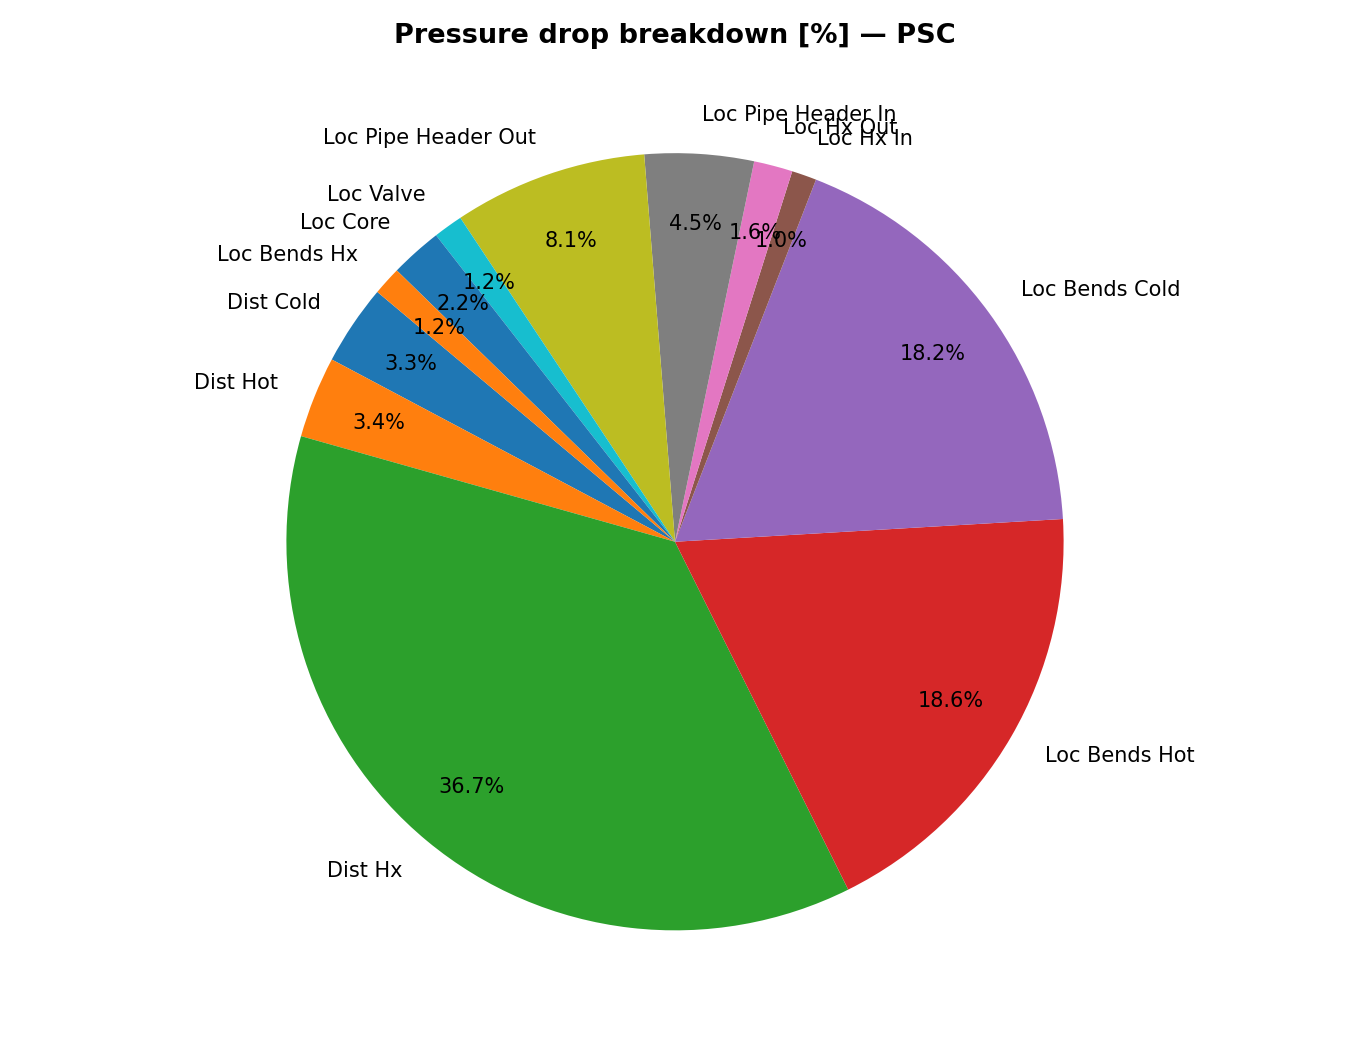
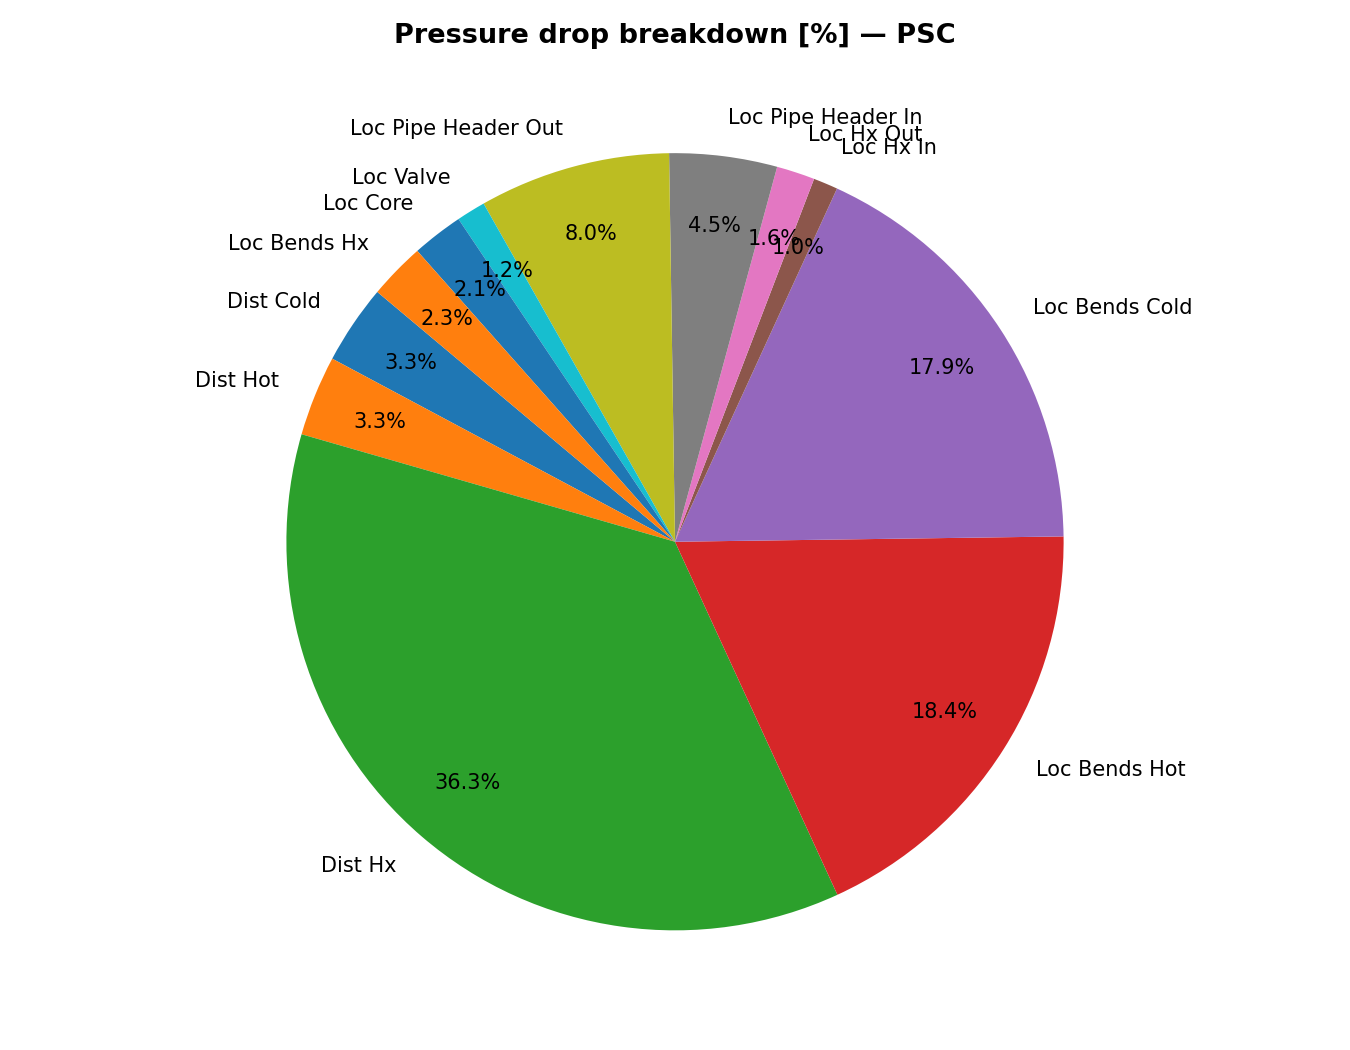
Migliorato grafici

diff --git a/assignment1/project2.py b/assignment1/project2.py
@@ -162,7 +162,7 @@ def pressure_drop_friction(m, N_HX, p, D_pipe, D_HX, T_av, T_c, T_h, eps_pipe, e
         dp_loc_shell = 0
         dp_loc_valve = k_valve * 1/(2*CP.PropsSI('D', 'T', T_av+273.15, 'P', p, 'Water') * (A_pipe)**2)
         dp_core = 1.2e5/3200**2  # perdita di carico nel core: deltaP_core [Pa] / m^2 [kg^2/s^2]
-        dp_bends_HX = k_bends * 1/(2*CP.PropsSI('D', 'T', T_av+273.15, 'P', p, 'Water') * (A_HX*N_HX)**2)
+        dp_bends_HX = 2* k_bends * 1/(2*CP.PropsSI('D', 'T', T_av+273.15, 'P', p, 'Water') * (A_HX*N_HX)**2)
         
 
     dp_dict = {
@@ -337,7 +337,7 @@ def plot_convergence(history_m_ISC, history_T_av_ISC, history_m_PSC, history_T_a
     plt.savefig(os.path.join(out_dir, 'convergence.png'), dpi=150)
 
 def plot_pressure_drop_pies(dp_dict_ISC, m_ISC, dp_dict_PSC, m_PSC, out_dir):
-    """Due grafici a torta separati: uno per ISC e uno per PSC."""
+    """Torte affiancate: contributo percentuale di ogni componente alle perdite totali per ISC e PSC."""
     keys = ['dist_cold', 'dist_hot', 'dist_HX',
             'loc_bends_hot', 'loc_bends_cold', 'loc_HX_in', 'loc_HX_out',
             'loc_pipe_header_in', 'loc_pipe_header_out',
@@ -347,18 +347,25 @@ def plot_pressure_drop_pies(dp_dict_ISC, m_ISC, dp_dict_PSC, m_PSC, out_dir):
     vals_ISC = np.array([dp_dict_ISC[k] * m_ISC**2 for k in keys])
     vals_PSC = np.array([dp_dict_PSC[k] * m_PSC**2 for k in keys])
 
-    for vals, mask_label, fname in [
-        (vals_ISC, 'ISC', 'pressure_drop_pie_ISC.png'),
-        (vals_PSC, 'PSC', 'pressure_drop_pie_PSC.png'),
-    ]:
+    def _draw_pie(ax, vals, title):
         mask = vals > 0
-        fig, ax = plt.subplots(figsize=(9, 7))
-        ax.pie(vals[mask], labels=np.array(labels)[mask],
-               autopct='%1.1f%%', startangle=140, pctdistance=0.82)
-        ax.set_title(f'Pressure drop breakdown [%] — {mask_label}', fontsize=13, fontweight='bold')
-        plt.tight_layout()
-        plt.savefig(os.path.join(out_dir, fname), dpi=150)
-        plt.close(fig)
+        v = vals[mask]
+        lbl = np.array(labels)[mask]
+        wedges, _ = ax.pie(v, startangle=140, wedgeprops=dict(linewidth=0.5, edgecolor='white'))
+        # Legenda con percentuali: nessuna etichetta diretta sul grafico → zero sovrapposizioni
+        pcts = v / v.sum() * 100
+        legend_labels = [f'{l}  ({p:.1f}%)' for l, p in zip(lbl, pcts)]
+        ax.legend(wedges, legend_labels, loc='center left', bbox_to_anchor=(1.0, 0.5),
+                  fontsize=8, frameon=True)
+        ax.set_title(title)
+
+    fig, (ax1, ax2) = plt.subplots(1, 2, figsize=(18, 7))
+    fig.suptitle('Pressure drop breakdown [%]: ISC vs PSC', fontsize=14, fontweight='bold')
+    _draw_pie(ax1, vals_ISC, 'ISC')
+    _draw_pie(ax2, vals_PSC, 'PSC')
+
+    plt.tight_layout()
+    plt.savefig(os.path.join(out_dir, 'pressure_drop_pies.png'), dpi=150, bbox_inches='tight')
 
 
 def plot_pressure_drops(dp_dict_ISC, m_ISC, dist_ISC, loc_ISC, dp_b_ISC,
